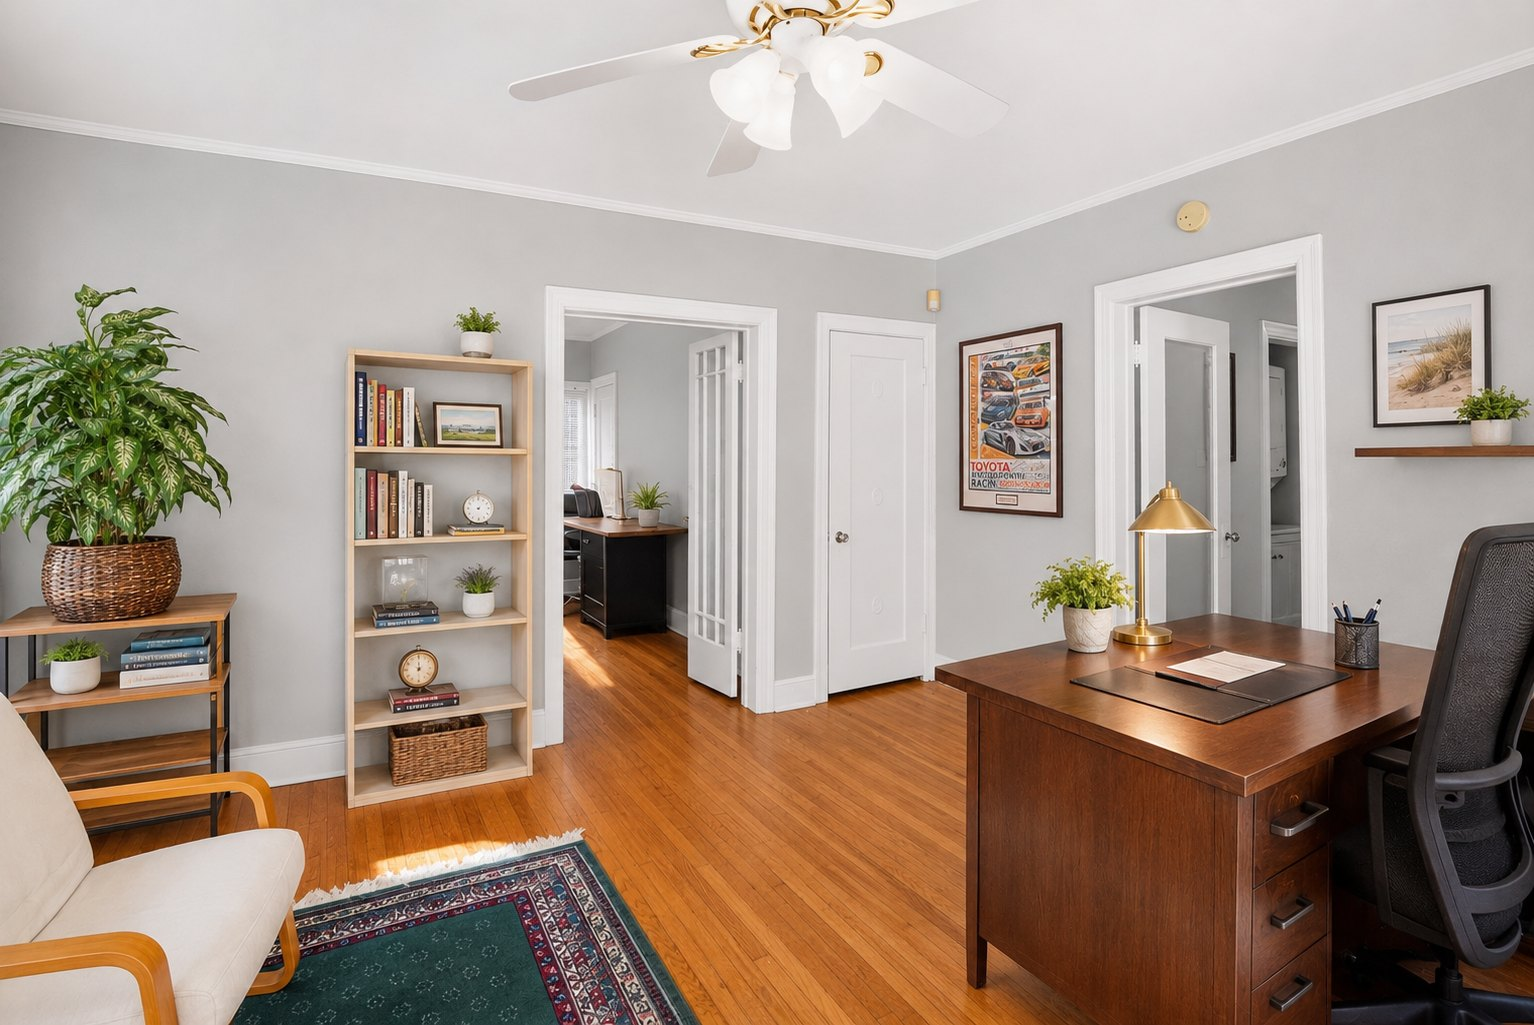
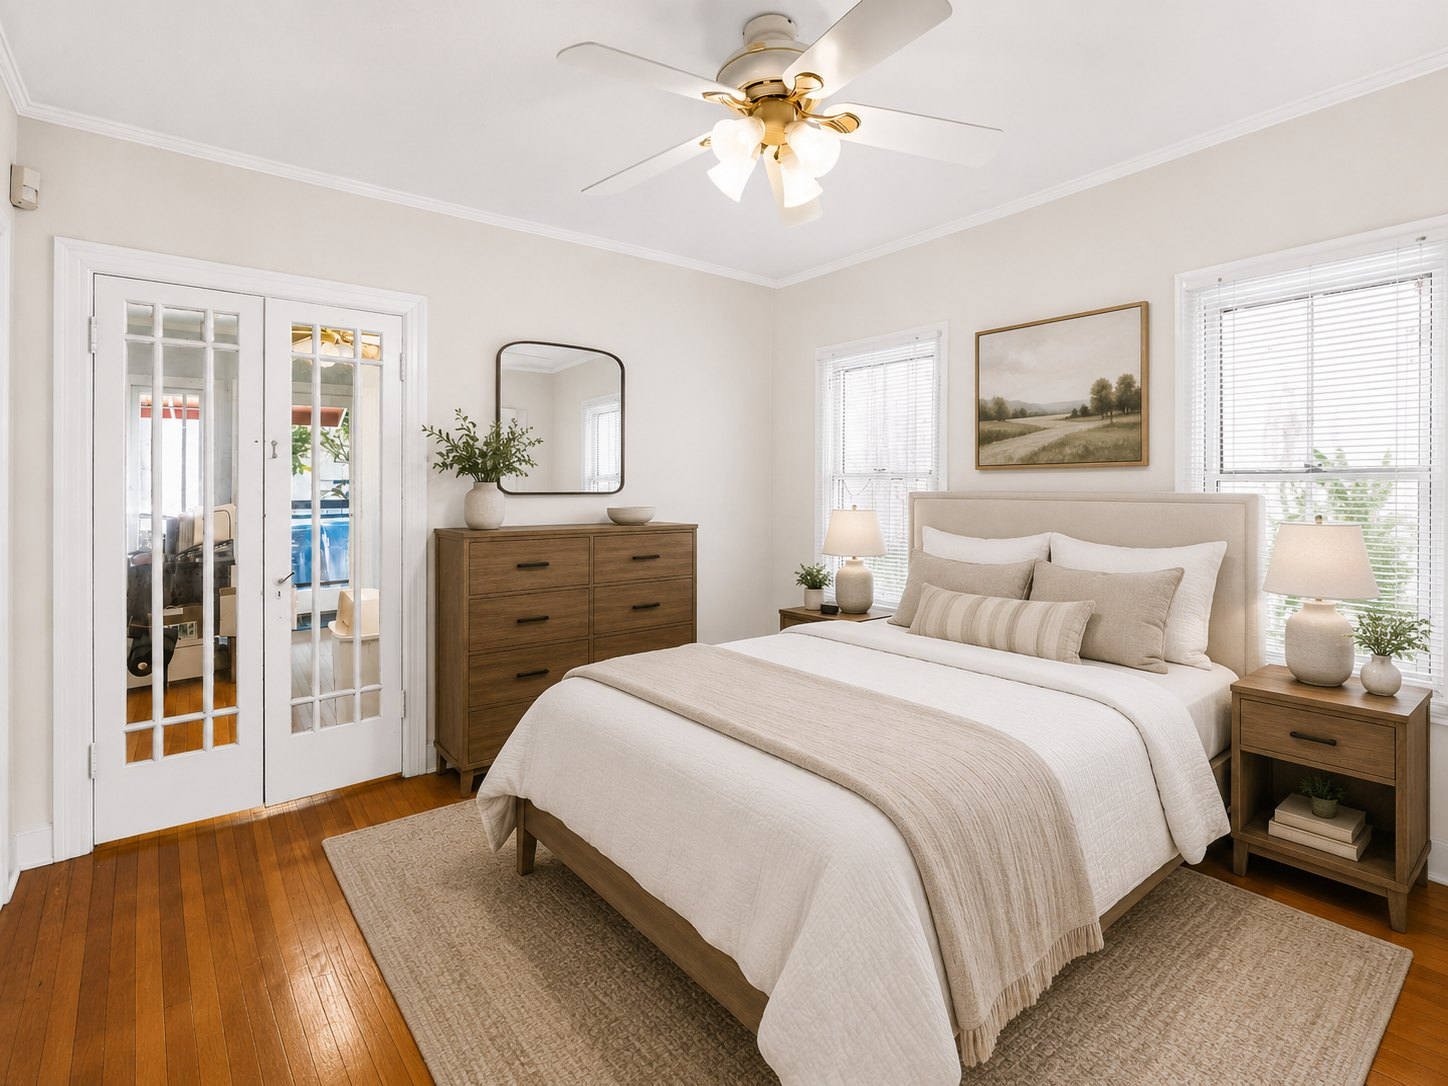
Melrose compound: fg11 is the bedroom staging, not the office

diff --git a/website/properties/private-melrose-compound/index.html b/website/properties/private-melrose-compound/index.html
@@ -453,7 +453,7 @@
   <figure><img class="lb" data-group="front" src="assets/bg5.jpg" alt="Front home bedroom"></figure>
   <figure><img class="lb" data-group="front" src="assets/fg5.jpg" alt="Front home bedroom"></figure>
   <figure><img class="lb" data-group="front" src="assets/fg6.jpg" alt="Front home office"></figure>
-  <figure><img class="lb" data-group="front" src="assets/fg11.jpg" alt="Front home office with built-in shelving"></figure>
+  <figure><img class="lb" data-group="front" src="assets/fg11.jpg" alt="Front home bedroom"></figure>
   <figure><img class="lb" data-group="front" src="assets/fg7.jpg" alt="Front home bath"></figure>
   <figure><img class="lb" data-group="front" src="assets/fg10.jpg" alt="Front home bath"></figure>
   <figure><img class="lb" data-group="front" src="assets/fg8.jpg" alt="Front home covered porch"></figure>
